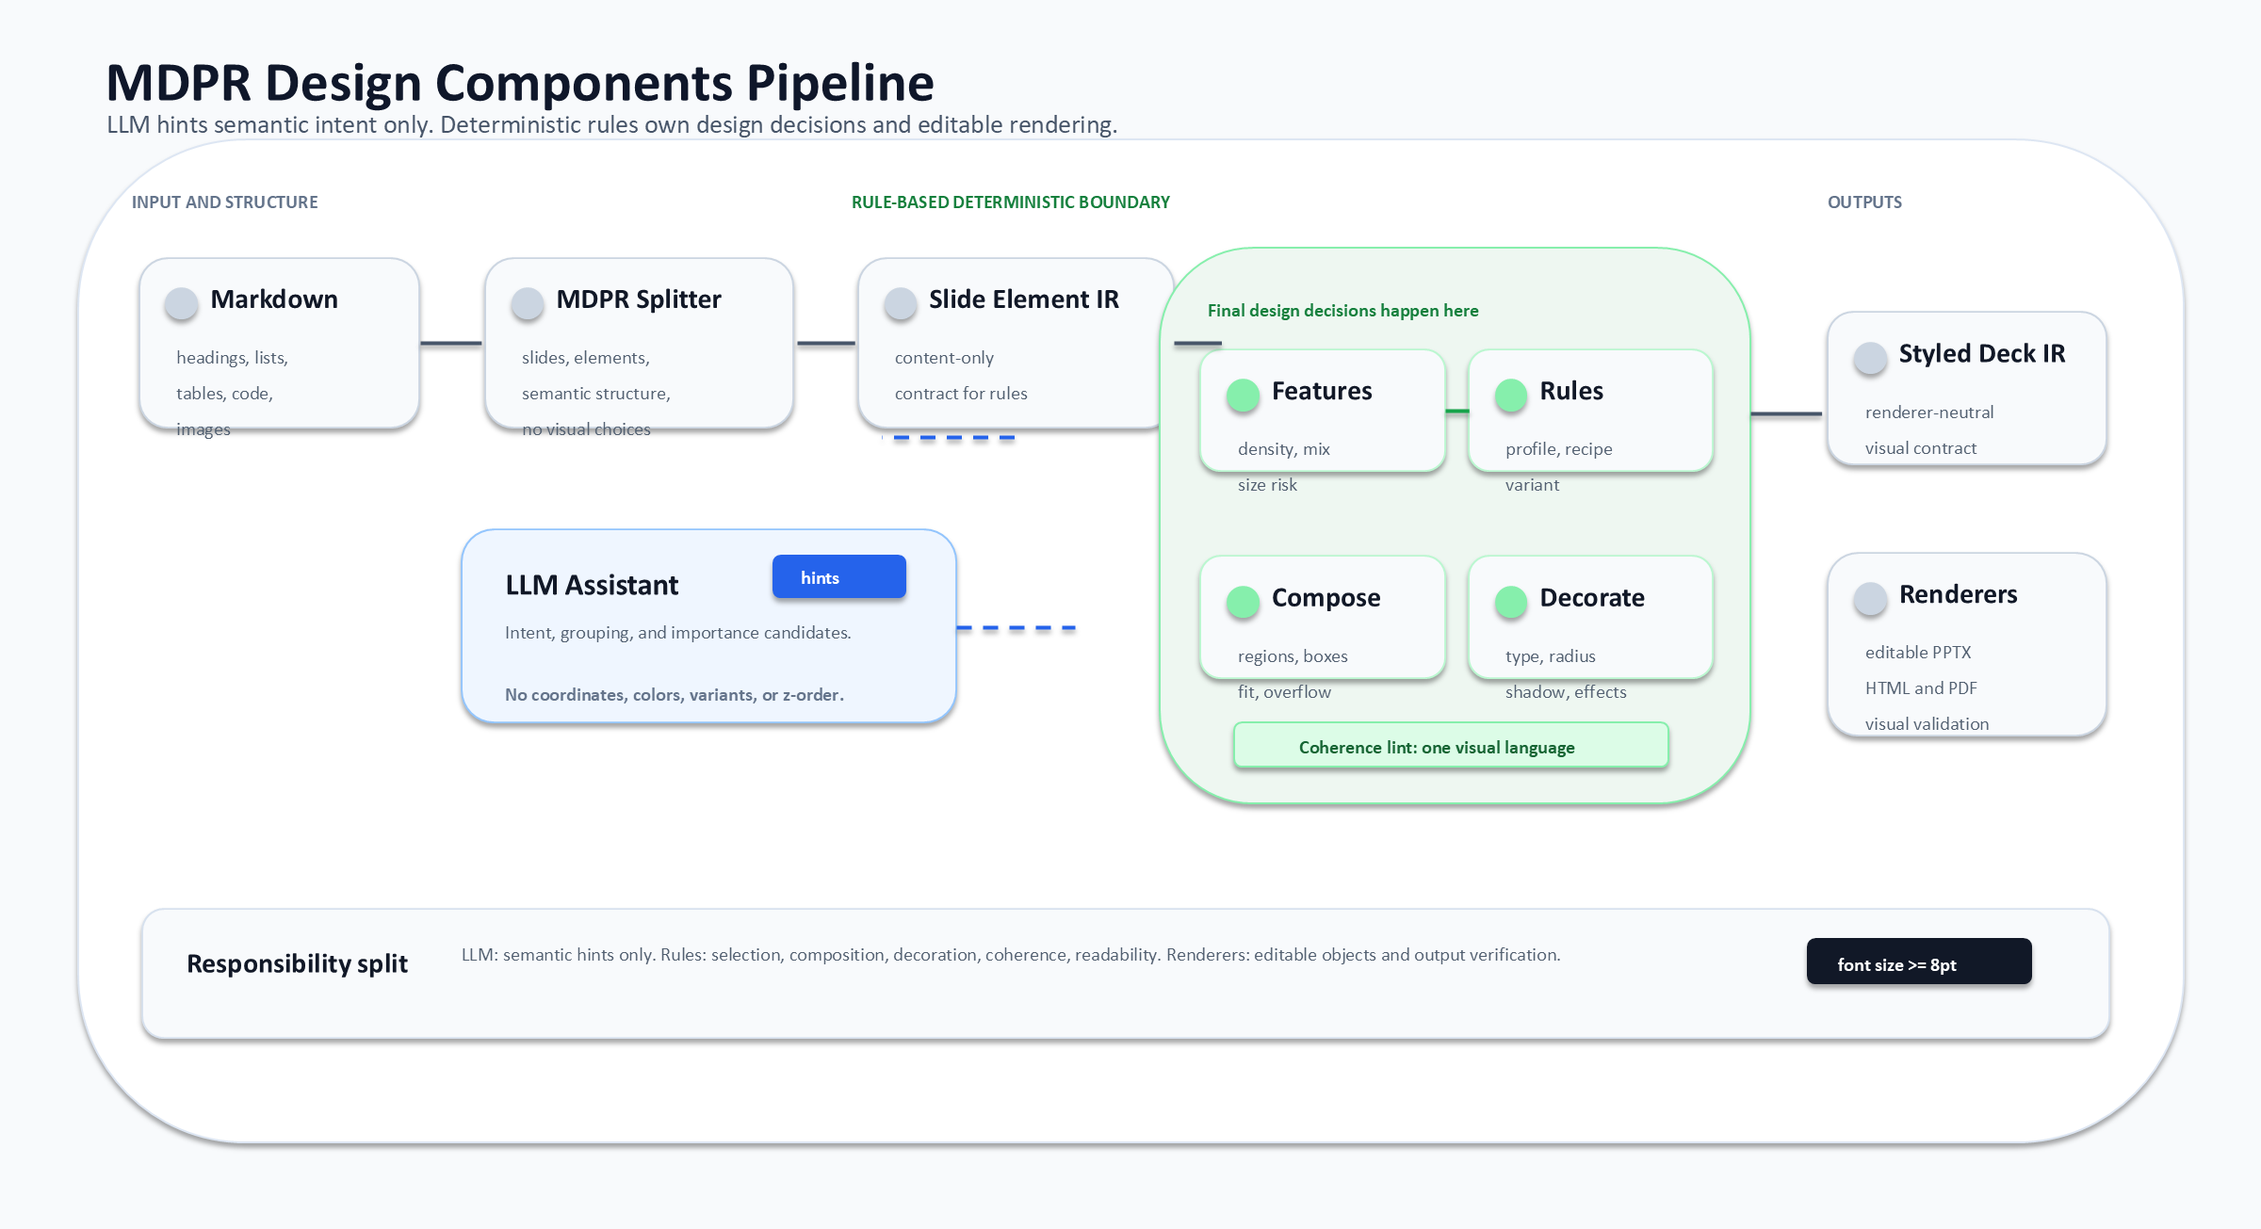
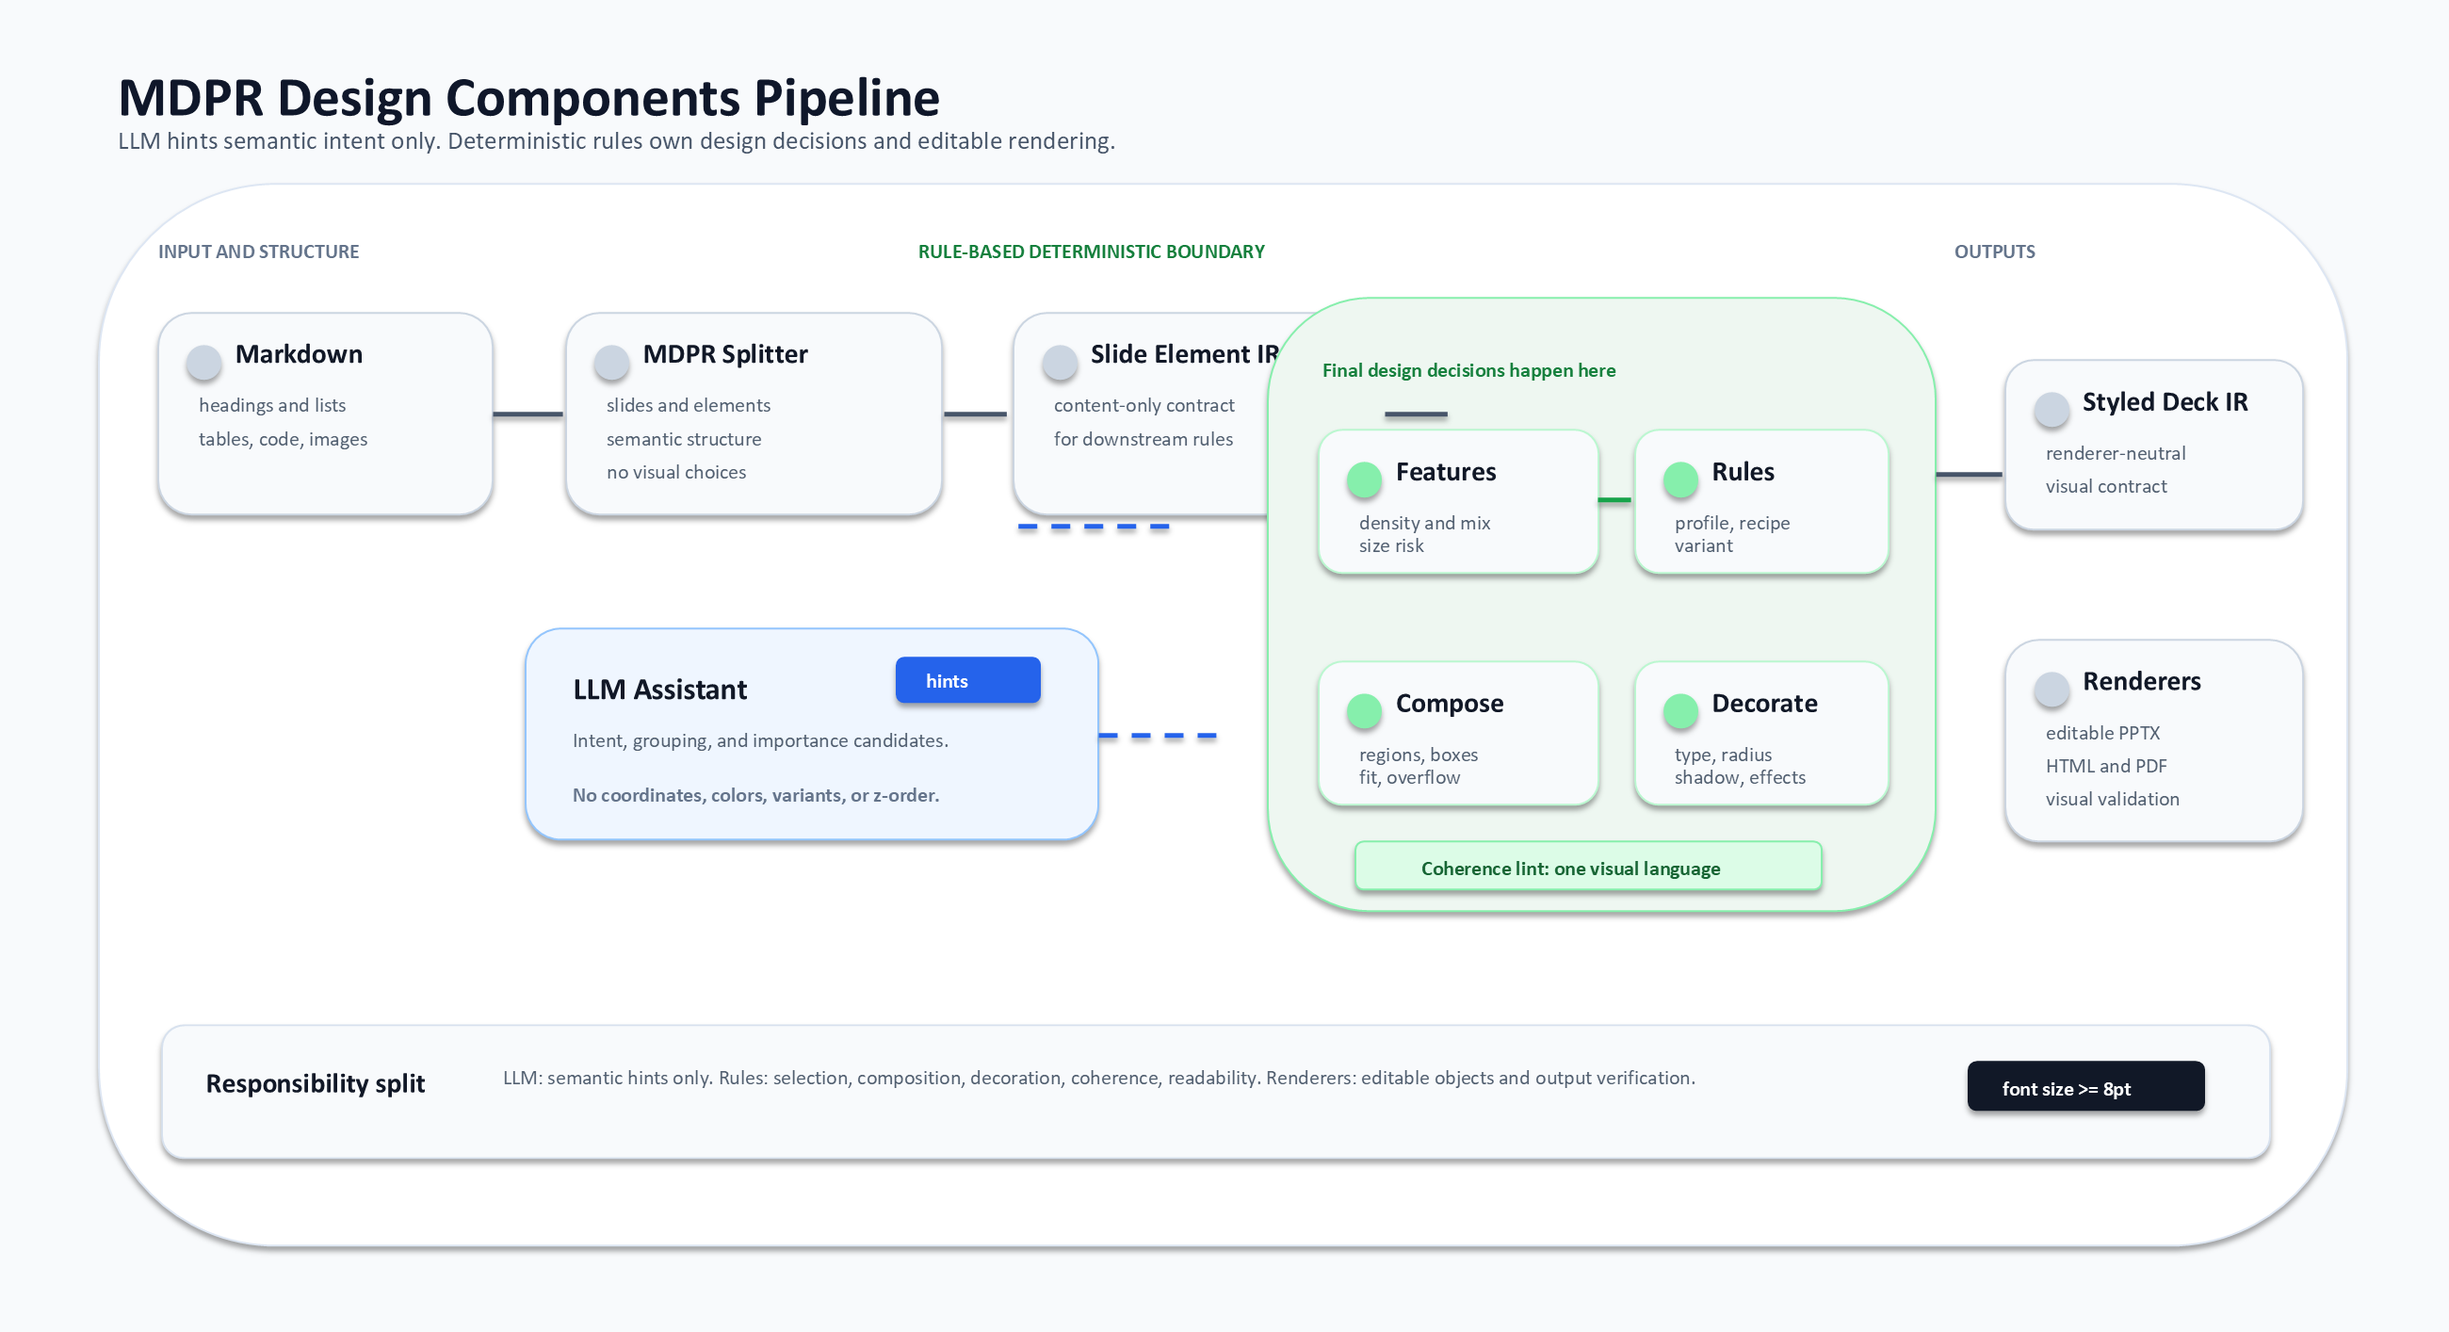
Harden pipeline overview layout validation

diff --git a/scripts/create_pipeline_overview_asset.py b/scripts/create_pipeline_overview_asset.py
@@ -3,6 +3,7 @@ from __future__ import annotations
 
 import json
 import shutil
+from dataclasses import dataclass
 from pathlib import Path
 from typing import Any
 
@@ -10,7 +11,7 @@ from PIL import Image
 from pptx import Presentation
 from pptx.dml.color import RGBColor
 from pptx.enum.shapes import MSO_AUTO_SHAPE_TYPE
-from pptx.enum.text import MSO_ANCHOR
+from pptx.enum.text import PP_ALIGN
 from pptx.util import Inches, Pt
 
 ROOT = Path(__file__).resolve().parents[1]
@@ -20,20 +21,53 @@ PNG = OUT / "pipeline-overview.png"
 REPORT = OUT / "pipeline-overview-report.json"
 
 
+@dataclass(frozen=True)
+class PipelineLayout:
+    slide_w: float = 13.333
+    slide_h: float = 7.25
+    export_w: int = 2600
+    export_h: int = 1414
+    origin_x: float = 0.64
+    origin_y: float = 0.34
+    canvas_x: float = 0.54
+    canvas_y: float = 1.0
+    canvas_w: float = 12.24
+    canvas_h: float = 5.78
+    scale: float = 1.0
+    min_font_pt: int = 8
+
+
+LAYOUT = PipelineLayout()
+TEXT_BOUNDS: list[dict[str, float | str]] = []
+BOX_BOUNDS: dict[str, tuple[float, float, float, float]] = {}
+
+
 def rgb(hex_value: str) -> RGBColor:
     return RGBColor(*(int(hex_value[i:i + 2], 16) for i in (0, 2, 4)))
 
 
-def shape(slide, name: str, kind: MSO_AUTO_SHAPE_TYPE, x: float, y: float, w: float, h: float, fill: str, line: str = "D7E1EE", radius_text: str | None = None):
+def font_size(size: int) -> int:
+    return max(LAYOUT.min_font_pt, round(size * LAYOUT.scale))
+
+
+def fits_inside(inner: tuple[float, float, float, float], outer: tuple[float, float, float, float]) -> bool:
+    ix, iy, iw, ih = inner
+    ox, oy, ow, oh = outer
+    eps = 0.012
+    return ix + eps >= ox and iy + eps >= oy and ix + iw <= ox + ow + eps and iy + ih <= oy + oh + eps
+
+
+def shape(slide, name: str, kind: MSO_AUTO_SHAPE_TYPE, x: float, y: float, w: float, h: float, fill: str, line: str = "D7E1EE"):
     item = slide.shapes.add_shape(kind, Inches(x), Inches(y), Inches(w), Inches(h))
     item.name = name
     item.fill.solid()
     item.fill.fore_color.rgb = rgb(fill)
     item.line.color.rgb = rgb(line)
+    BOX_BOUNDS[name] = (x, y, w, h)
     return item
 
 
-def text(slide, name: str, x: float, y: float, w: float, h: float, value: str, size: int, color: str = "0F172A", bold: bool = False):
+def text(slide, name: str, x: float, y: float, w: float, h: float, value: str, size: int, color: str = "0F172A", bold: bool = False, parent: str | None = None):
     box = slide.shapes.add_textbox(Inches(x), Inches(y), Inches(w), Inches(h))
     box.name = name
     frame = box.text_frame
@@ -44,20 +78,29 @@ def text(slide, name: str, x: float, y: float, w: float, h: float, value: str, s
     frame.margin_bottom = 0
     frame.word_wrap = True
     p = frame.paragraphs[0]
+    p.alignment = PP_ALIGN.LEFT
     run = p.add_run()
     run.text = value
-    run.font.size = Pt(size)
+    run.font.size = Pt(font_size(size))
     run.font.bold = bold
     run.font.color.rgb = rgb(color)
+    TEXT_BOUNDS.append({"name": name, "parent": parent or "", "x": x, "y": y, "w": w, "h": h, "fontSize": font_size(size), "text": value})
     return box
 
 
 def card(slide, name: str, x: float, y: float, w: float, h: float, title: str, lines: list[str], accent: str = "E2E8F0", border: str = "CBD5E1"):
-    shape(slide, f"{name}_card", MSO_AUTO_SHAPE_TYPE.ROUNDED_RECTANGLE, x, y, w, h, "F8FAFC", border)
+    parent = f"{name}_card"
+    shape(slide, parent, MSO_AUTO_SHAPE_TYPE.ROUNDED_RECTANGLE, x, y, w, h, "F8FAFC", border)
     shape(slide, f"{name}_dot", MSO_AUTO_SHAPE_TYPE.OVAL, x + 0.16, y + 0.18, 0.18, 0.18, accent, accent)
-    text(slide, f"{name}_title", x + 0.42, y + 0.14, w - 0.58, 0.24, title, 12, "111827", True)
+    text(slide, f"{name}_title", x + 0.42, y + 0.13, w - 0.58, 0.22, title, 11, "111827", True, parent=parent)
+    body_top = y + 0.44
+    body_bottom = y + h - 0.12
+    line_count = max(1, len(lines))
+    line_gap = min(0.18, max(0.12, (body_bottom - body_top) / line_count))
+    line_h = min(0.16, max(0.12, line_gap - 0.02))
     for idx, line in enumerate(lines):
-        text(slide, f"{name}_line_{idx}", x + 0.22, y + 0.52 + idx * 0.21, w - 0.42, 0.18, line, 8, "526071")
+        line_y = body_top + idx * line_gap
+        text(slide, f"{name}_line_{idx}", x + 0.22, line_y, w - 0.42, line_h, line, 8, "526071", parent=parent)
 
 
 def arrow(slide, name: str, x: float, y: float, w: float, color: str = "475569", dashed: bool = False):
@@ -72,58 +115,60 @@ def arrow(slide, name: str, x: float, y: float, w: float, color: str = "475569",
 
 
 def build_deck(path: Path) -> None:
+    TEXT_BOUNDS.clear()
+    BOX_BOUNDS.clear()
     prs = Presentation()
-    prs.slide_width = Inches(13.333)
-    prs.slide_height = Inches(7.25)
+    prs.slide_width = Inches(LAYOUT.slide_w)
+    prs.slide_height = Inches(LAYOUT.slide_h)
     slide = prs.slides.add_slide(prs.slide_layouts[6])
 
-    shape(slide, "z00_background", MSO_AUTO_SHAPE_TYPE.RECTANGLE, 0, 0, 13.333, 7.25, "F8FAFC", "F8FAFC")
-    shape(slide, "z01_canvas", MSO_AUTO_SHAPE_TYPE.ROUNDED_RECTANGLE, 0.46, 0.82, 12.42, 5.92, "FFFFFF", "DDE6F3")
+    shape(slide, "z00_background", MSO_AUTO_SHAPE_TYPE.RECTANGLE, 0, 0, LAYOUT.slide_w, LAYOUT.slide_h, "F8FAFC", "F8FAFC")
+    shape(slide, "z01_canvas", MSO_AUTO_SHAPE_TYPE.ROUNDED_RECTANGLE, LAYOUT.canvas_x, LAYOUT.canvas_y, LAYOUT.canvas_w, LAYOUT.canvas_h, "FFFFFF", "DDE6F3")
 
-    text(slide, "title", 0.62, 0.28, 5.8, 0.38, "MDPR Design Components Pipeline", 24, "0F172A", True)
-    text(slide, "subtitle", 0.63, 0.64, 8.0, 0.22, "LLM hints semantic intent only. Deterministic rules own design decisions and editable rendering.", 11, "475569")
+    text(slide, "title", LAYOUT.origin_x, LAYOUT.origin_y, 6.3, 0.4, "MDPR Design Components Pipeline", 22, "0F172A", True)
+    text(slide, "subtitle", LAYOUT.origin_x, 0.68, 8.7, 0.24, "LLM hints semantic intent only. Deterministic rules own design decisions and editable rendering.", 10, "475569")
 
-    text(slide, "section_input", 0.78, 1.12, 2.2, 0.2, "INPUT AND STRUCTURE", 8, "64748B", True)
-    text(slide, "section_rule", 5.02, 1.12, 3.0, 0.2, "RULE-BASED DETERMINISTIC BOUNDARY", 8, "15803D", True)
-    text(slide, "section_output", 10.78, 1.12, 1.6, 0.2, "OUTPUTS", 8, "64748B", True)
+    text(slide, "section_input", 0.86, 1.3, 2.2, 0.22, "INPUT AND STRUCTURE", 8, "64748B", True)
+    text(slide, "section_rule", 5.0, 1.3, 3.08, 0.22, "RULE-BASED DETERMINISTIC BOUNDARY", 8, "15803D", True)
+    text(slide, "section_output", 10.64, 1.3, 1.6, 0.22, "OUTPUTS", 8, "64748B", True)
 
-    card(slide, "markdown", 0.82, 1.52, 1.65, 1.0, "Markdown", ["headings, lists,", "tables, code,", "images"], "CBD5E1")
-    card(slide, "splitter", 2.86, 1.52, 1.82, 1.0, "MDPR Splitter", ["slides, elements,", "semantic structure,", "no visual choices"], "CBD5E1")
-    card(slide, "ir", 5.06, 1.52, 1.86, 1.0, "Slide Element IR", ["content-only", "contract for rules"], "CBD5E1")
-    arrow(slide, "arrow_markdown_splitter", 2.48, 2.02, 0.36)
-    arrow(slide, "arrow_splitter_ir", 4.7, 2.02, 0.34)
+    card(slide, "markdown", 0.86, 1.7, 1.82, 1.1, "Markdown", ["headings and lists", "tables, code, images"], "CBD5E1")
+    card(slide, "splitter", 3.08, 1.7, 2.05, 1.1, "MDPR Splitter", ["slides and elements", "semantic structure", "no visual choices"], "CBD5E1")
+    card(slide, "ir", 5.52, 1.7, 2.02, 1.1, "Slide Element IR", ["content-only contract", "for downstream rules"], "CBD5E1")
+    arrow(slide, "arrow_markdown_splitter", 2.68, 2.25, 0.38)
+    arrow(slide, "arrow_splitter_ir", 5.14, 2.25, 0.34)
 
-    shape(slide, "llm_card", MSO_AUTO_SHAPE_TYPE.ROUNDED_RECTANGLE, 2.72, 3.12, 2.92, 1.14, "EFF6FF", "93C5FD")
-    text(slide, "llm_title", 2.98, 3.34, 1.7, 0.24, "LLM Assistant", 13, "111827", True)
-    text(slide, "llm_body", 2.98, 3.66, 2.2, 0.38, "Intent, grouping, and importance candidates.", 8, "526071")
-    shape(slide, "llm_badge", MSO_AUTO_SHAPE_TYPE.ROUNDED_RECTANGLE, 4.56, 3.28, 0.78, 0.24, "2563EB", "2563EB")
-    text(slide, "llm_badge_text", 4.72, 3.34, 0.48, 0.12, "hints", 8, "FFFFFF", True)
-    text(slide, "llm_boundary", 2.98, 4.03, 2.25, 0.18, "No coordinates, colors, variants, or z-order.", 8, "64748B", True)
-    arrow(slide, "hint_ir_llm", 5.98, 2.58, -0.78, "2563EB", True)
-    arrow(slide, "hint_llm_rules", 5.64, 3.7, 0.7, "2563EB", True)
+    shape(slide, "llm_card", MSO_AUTO_SHAPE_TYPE.ROUNDED_RECTANGLE, 2.86, 3.42, 3.12, 1.15, "EFF6FF", "93C5FD")
+    text(slide, "llm_title", 3.12, 3.65, 1.72, 0.24, "LLM Assistant", 12, "111827", True, parent="llm_card")
+    text(slide, "llm_body", 3.12, 3.96, 2.34, 0.22, "Intent, grouping, and importance candidates.", 8, "526071", False, parent="llm_card")
+    shape(slide, "llm_badge", MSO_AUTO_SHAPE_TYPE.ROUNDED_RECTANGLE, 4.88, 3.58, 0.78, 0.24, "2563EB", "2563EB")
+    text(slide, "llm_badge_text", 5.04, 3.64, 0.48, 0.12, "hints", 8, "FFFFFF", True, parent="llm_badge")
+    text(slide, "llm_boundary", 3.12, 4.26, 2.5, 0.18, "No coordinates, colors, variants, or z-order.", 8, "64748B", True, parent="llm_card")
+    arrow(slide, "hint_ir_llm", 6.36, 2.86, -0.86, "2563EB", True)
+    arrow(slide, "hint_llm_rules", 5.98, 4.0, 0.64, "2563EB", True)
 
-    shape(slide, "rule_boundary", MSO_AUTO_SHAPE_TYPE.ROUNDED_RECTANGLE, 6.84, 1.46, 3.48, 3.28, "EEF7F1", "86EFAC")
-    text(slide, "rule_boundary_title", 7.12, 1.76, 2.72, 0.2, "Final design decisions happen here", 8, "15803D", True)
-    card(slide, "features", 7.08, 2.06, 1.44, 0.72, "Features", ["density, mix", "size risk"], "86EFAC", "BBF7D0")
-    card(slide, "rules", 8.66, 2.06, 1.44, 0.72, "Rules", ["profile, recipe", "variant"], "86EFAC", "BBF7D0")
-    card(slide, "compose", 7.08, 3.28, 1.44, 0.72, "Compose", ["regions, boxes", "fit, overflow"], "86EFAC", "BBF7D0")
-    card(slide, "decorate", 8.66, 3.28, 1.44, 0.72, "Decorate", ["type, radius", "shadow, effects"], "86EFAC", "BBF7D0")
-    arrow(slide, "arrow_ir_rule", 6.92, 2.02, 0.28)
-    arrow(slide, "rule_arrow_1", 8.52, 2.42, 0.14, "16A34A")
-    arrow(slide, "rule_arrow_2", 9.38, 2.78, 0.0, "16A34A")
-    shape(slide, "lint_pill", MSO_AUTO_SHAPE_TYPE.ROUNDED_RECTANGLE, 7.28, 4.26, 2.56, 0.26, "DCFCE7", "86EFAC")
-    text(slide, "lint_text", 7.66, 4.34, 1.8, 0.1, "Coherence lint: one visual language", 8, "166534", True)
+    shape(slide, "rule_boundary", MSO_AUTO_SHAPE_TYPE.ROUNDED_RECTANGLE, 6.9, 1.62, 3.64, 3.34, "EEF7F1", "86EFAC")
+    text(slide, "rule_boundary_title", 7.2, 1.95, 2.96, 0.22, "Final design decisions happen here", 8, "15803D", True, parent="rule_boundary")
+    card(slide, "features", 7.18, 2.34, 1.52, 0.78, "Features", ["density and mix", "size risk"], "86EFAC", "BBF7D0")
+    card(slide, "rules", 8.9, 2.34, 1.38, 0.78, "Rules", ["profile, recipe", "variant"], "86EFAC", "BBF7D0")
+    card(slide, "compose", 7.18, 3.6, 1.52, 0.78, "Compose", ["regions, boxes", "fit, overflow"], "86EFAC", "BBF7D0")
+    card(slide, "decorate", 8.9, 3.6, 1.38, 0.78, "Decorate", ["type, radius", "shadow, effects"], "86EFAC", "BBF7D0")
+    arrow(slide, "arrow_ir_rule", 7.54, 2.25, 0.34)
+    arrow(slide, "rule_arrow_1", 8.7, 2.72, 0.18, "16A34A")
+    arrow(slide, "rule_arrow_2", 9.58, 3.12, 0.0, "16A34A")
+    shape(slide, "lint_pill", MSO_AUTO_SHAPE_TYPE.ROUNDED_RECTANGLE, 7.38, 4.58, 2.54, 0.26, "DCFCE7", "86EFAC")
+    text(slide, "lint_text", 7.74, 4.66, 1.82, 0.1, "Coherence lint: one visual language", 8, "166534", True, parent="lint_pill")
 
-    card(slide, "styled_ir", 10.78, 1.84, 1.64, 0.9, "Styled Deck IR", ["renderer-neutral", "visual contract"], "CBD5E1")
-    card(slide, "renderers", 10.78, 3.26, 1.64, 1.08, "Renderers", ["editable PPTX", "HTML and PDF", "visual validation"], "CBD5E1")
-    arrow(slide, "arrow_rule_output", 10.32, 2.44, 0.42)
-    arrow(slide, "arrow_ir_renderers", 11.46, 2.74, 0.0)
+    card(slide, "styled_ir", 10.92, 1.96, 1.62, 0.92, "Styled Deck IR", ["renderer-neutral", "visual contract"], "CBD5E1")
+    card(slide, "renderers", 10.92, 3.48, 1.62, 1.1, "Renderers", ["editable PPTX", "HTML and PDF", "visual validation"], "CBD5E1")
+    arrow(slide, "arrow_rule_output", 10.54, 2.58, 0.36)
+    arrow(slide, "arrow_ir_renderers", 11.74, 2.88, 0.0)
 
-    shape(slide, "responsibility", MSO_AUTO_SHAPE_TYPE.ROUNDED_RECTANGLE, 0.84, 5.36, 11.6, 0.76, "F8FAFC", "D7E1EE")
-    text(slide, "responsibility_title", 1.1, 5.58, 1.6, 0.18, "Responsibility split", 12, "111827", True)
-    text(slide, "responsibility_body", 2.72, 5.56, 6.6, 0.28, "LLM: semantic hints only. Rules: selection, composition, decoration, coherence, readability. Renderers: editable objects and output verification.", 8, "526071")
-    shape(slide, "font_badge", MSO_AUTO_SHAPE_TYPE.ROUNDED_RECTANGLE, 10.66, 5.54, 1.32, 0.26, "111827", "111827")
-    text(slide, "font_badge_text", 10.84, 5.62, 0.98, 0.1, "font size >= 8pt", 8, "FFFFFF", True)
+    shape(slide, "responsibility", MSO_AUTO_SHAPE_TYPE.ROUNDED_RECTANGLE, 0.88, 5.58, 11.48, 0.72, "F8FAFC", "D7E1EE")
+    text(slide, "responsibility_title", 1.12, 5.8, 1.56, 0.18, "Responsibility split", 11, "111827", True, parent="responsibility")
+    text(slide, "responsibility_body", 2.74, 5.8, 6.9, 0.22, "LLM: semantic hints only. Rules: selection, composition, decoration, coherence, readability. Renderers: editable objects and output verification.", 8, "526071", False, parent="responsibility")
+    shape(slide, "font_badge", MSO_AUTO_SHAPE_TYPE.ROUNDED_RECTANGLE, 10.72, 5.78, 1.28, 0.26, "111827", "111827")
+    text(slide, "font_badge_text", 10.9, 5.86, 0.94, 0.1, "font size >= 8pt", 8, "FFFFFF", True, parent="font_badge")
 
     prs.save(path)
 
@@ -139,7 +184,7 @@ def export_with_powerpoint(pptx_path: Path, output_dir: Path) -> Path:
     try:
         app.Visible = 1
         presentation = app.Presentations.Open(str(pptx_path.resolve()), WithWindow=False)
-        presentation.Export(str(output_dir.resolve()), "PNG", 2400, 1305)
+        presentation.Export(str(output_dir.resolve()), "PNG", LAYOUT.export_w, LAYOUT.export_h)
     finally:
         if presentation is not None:
             presentation.Close()
@@ -163,6 +208,33 @@ def validate_png(path: Path) -> dict[str, Any]:
     }
 
 
+def validate_layout() -> dict[str, Any]:
+    overflow: list[dict[str, Any]] = []
+    font_violations: list[dict[str, Any]] = []
+    for item in TEXT_BOUNDS:
+        parent = str(item["parent"])
+        if parent and parent in BOX_BOUNDS:
+            text_box = (float(item["x"]), float(item["y"]), float(item["w"]), float(item["h"]))
+            if not fits_inside(text_box, BOX_BOUNDS[parent]):
+                overflow.append(item)
+        if int(item["fontSize"]) < LAYOUT.min_font_pt:
+            font_violations.append(item)
+    return {
+        "origin": {"x": LAYOUT.origin_x, "y": LAYOUT.origin_y},
+        "slideSize": {"widthIn": LAYOUT.slide_w, "heightIn": LAYOUT.slide_h},
+        "exportSize": {"widthPx": LAYOUT.export_w, "heightPx": LAYOUT.export_h},
+        "alignment": "left",
+        "fontScale": LAYOUT.scale,
+        "minFontSizePt": LAYOUT.min_font_pt,
+        "trackedTextBoxes": len(TEXT_BOUNDS),
+        "overflowCount": len(overflow),
+        "fontViolationCount": len(font_violations),
+        "overflow": overflow,
+        "fontViolations": font_violations,
+        "ok": not overflow and not font_violations,
+    }
+
+
 def main() -> None:
     OUT.mkdir(parents=True, exist_ok=True)
     export_dir = OUT / "pipeline-overview-export"
@@ -170,12 +242,14 @@ def main() -> None:
     exported = export_with_powerpoint(PPTX, export_dir)
     shutil.copyfile(exported, PNG)
     render = validate_png(PNG)
+    layout = validate_layout()
     report = {
         "pptx": str(PPTX.relative_to(ROOT)),
         "png": str(PNG.relative_to(ROOT)),
         "powerPointRawExportPng": str(exported.relative_to(ROOT)),
         "renderValidation": render,
-        "ok": render["hasContent"],
+        "layoutValidation": layout,
+        "ok": render["hasContent"] and layout["ok"],
     }
     REPORT.write_text(json.dumps(report, indent=2, ensure_ascii=False) + "\n", encoding="utf-8")
     if not report["ok"]:
